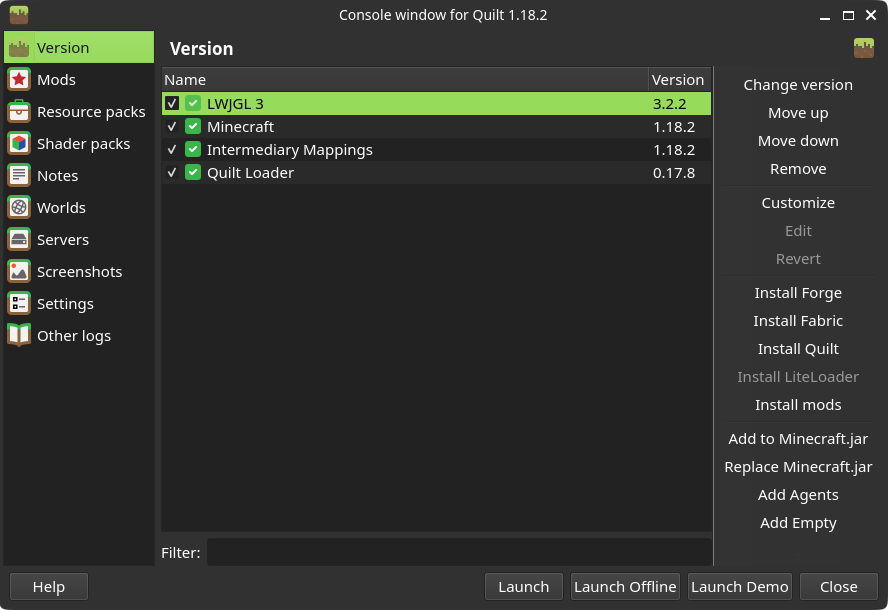
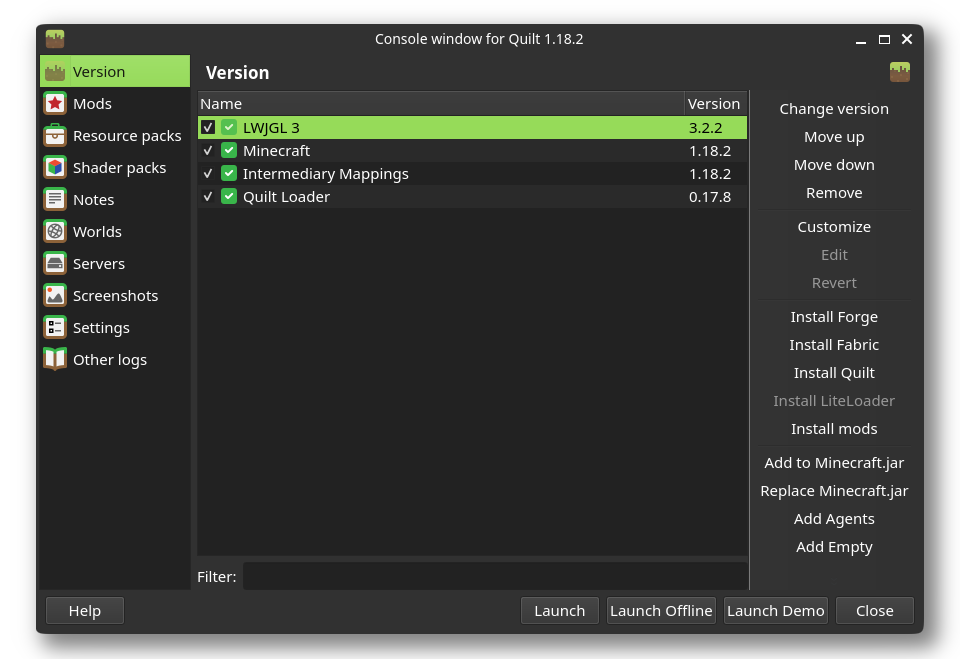
Add dropshadow
And fix customize

Changed region(s): [[0.0, 0.0, 1.0, 1.0]]

diff --git a/src/index.md b/src/index.md
@@ -71,7 +71,7 @@ hero:
       </div>
     </div>
     <div class="column">
-      {% image "Mod Installer", "./src/img/screenshots/Customize.png" %}
+      {% image "Mod Installer", "./src/img/screenshots/CustomizeLight.png", "./src/img/screenshots/CustomizeDark.png" %}
     </div>
   </div>
 </div>
